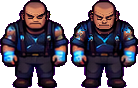
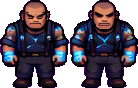
WIP c14bf/p5 04:38: blinks for 6 more villagers; eye window tightened

diff --git a/tools/slice_c14b_p5.py b/tools/slice_c14b_p5.py
@@ -87,6 +87,10 @@ def blink(gid, anim, render, face=(0.12, 0.55), thr=60):
         # the eyes are the strongest change (a smile or hair fringe is smaller)
         run = max(runs, key=lambda r: sum(rows[y] for y in r))
         ylo, yhi = run[0], run[-1]
+        win = max(4, int(ch * 0.1))  # an eye is at most ~10% of the body tall
+        if yhi - ylo + 1 > win:
+            best = max(range(ylo, yhi - win + 2), key=lambda t: sum(rows.get(y, 0) for y in range(t, t + win)))
+            ylo, yhi = best, best + win - 1
         pts = [(x, y) for x, y in pts if ylo <= y <= yhi]
         for x, y in pts:
             c = rp[x, y]
